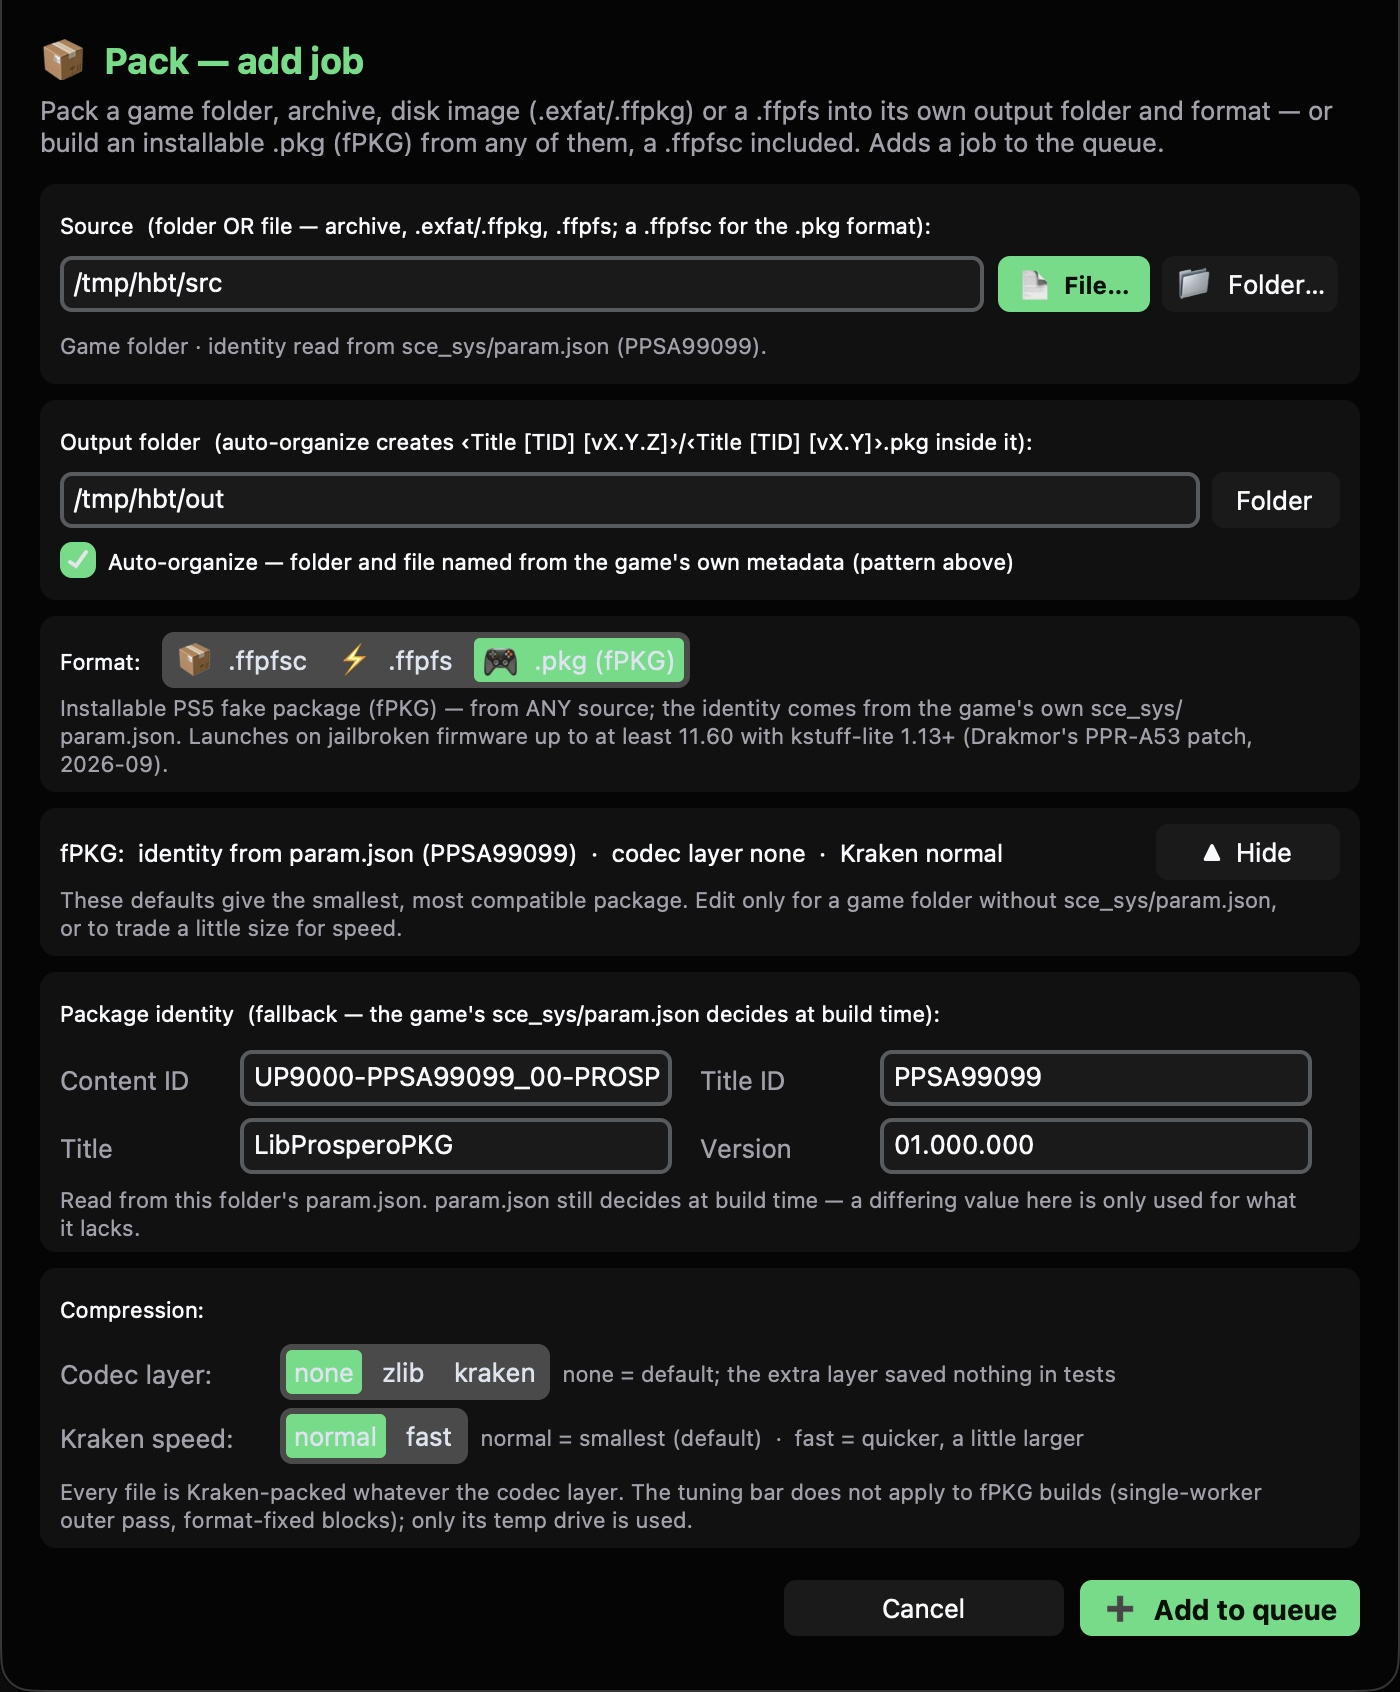
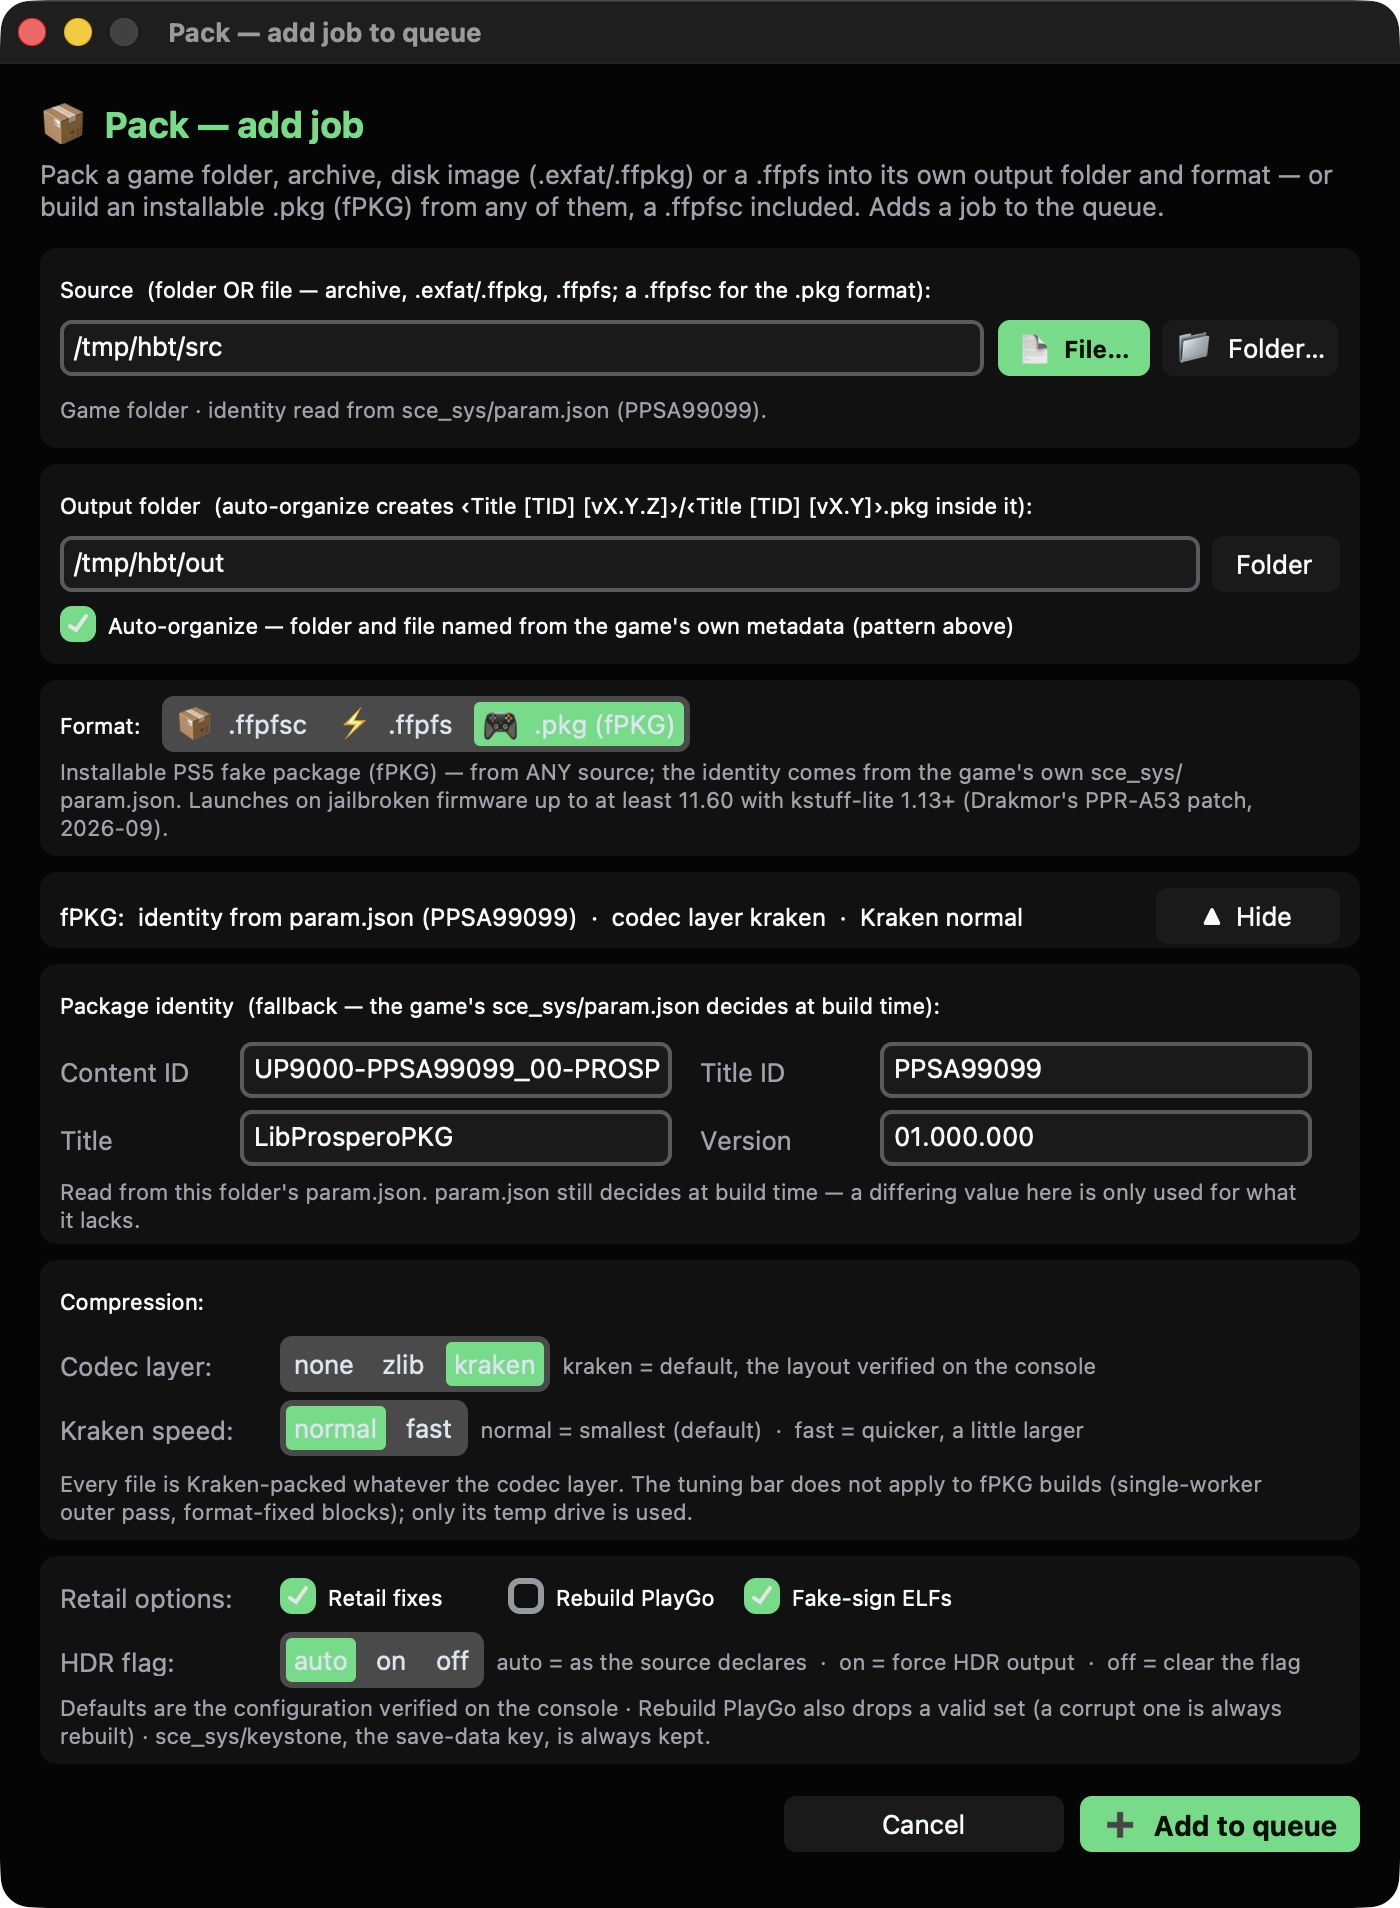
1.1.15: changelog, README, refreshed screenshots, log pane header, fPKG stage cleanup
- CHANGELOG: one 1.1.15 section for everything since 1.1.13 (1.1.14 was never
  released).
- README: 19-point validate, retail titles launch since 1.1.12.
- Screenshots retaken from 1.1.15 with the public homebrew sample only.
- The log pane header no longer gets squeezed out of a short log pane.
- Pack dialog: the codec hint names kraken as the default it is.
- Failure cleanup removes an fPKG staging mirror left next to a folder source.

diff --git a/PS5_FFPFSC_ULTRA_v1.0.py b/PS5_FFPFSC_ULTRA_v1.0.py
@@ -94,7 +94,7 @@ except Exception:
     _HAS_DND = False
 
 APP_NAME = "PS5 FFPFSC ULTRA"
-APP_VERSION = "1.1.14"
+APP_VERSION = "1.1.15"
 # For archive sources, the GUI extraction occupies the first slice of a game's overall
 # progress; the worker's pack progress is compressed into the remaining tail so the
 # whole-game percentage stays monotonic across extraction → pack (see CLIWorker._set_stage
@@ -4982,7 +4982,7 @@ class PackDialog(ctk.CTkToplevel):
         ctk.CTkSegmentedButton(r1, values=list(self._INNER), variable=self.inner_var,
                                 selected_color=GREEN, selected_hover_color=GREEN2,
                                 command=lambda *_: self._refresh_hints()).pack(side="left")
-        ctk.CTkLabel(r1, text="  none = default; the extra layer saved nothing in tests",
+        ctk.CTkLabel(r1, text="  kraken = default, the layout verified on the console",
                       text_color=MUTED, font=ctk.CTkFont(size=11)).pack(side="left")
         if self._backend_shown:
             r2 = ctk.CTkFrame(self.crow, fg_color=PANEL); r2.pack(fill="x", padx=10, pady=2)
@@ -7226,7 +7226,9 @@ class App:
         # Logs tab
         log_tab = self.bottom_tabs.tab("Logs")
         log_tab.grid_columnconfigure(0, weight=1)
-        log_tab.grid_rowconfigure(0, weight=1)
+        # Only the text box grows or shrinks; the header row keeps its natural height,
+        # otherwise a short log pane squeezes it and "LOGS" / CLEAR LOGS are cut off.
+        log_tab.grid_rowconfigure(0, weight=0)
         log_head = ctk.CTkFrame(log_tab, fg_color=BLACK)
         log_head.grid(row=0, column=0, sticky="ew")
         log_head.grid_columnconfigure(0, weight=1)
@@ -7238,7 +7240,7 @@ class App:
                                         font=ctk.CTkFont(size=12))
         self._ram_label.grid(row=0, column=1, padx=(0, 10), sticky="e")
         self._button(log_head, "CLEAR LOGS", self.clear_logs, width=110).grid(row=0, column=2, padx=4)
-        self.log_box = ctk.CTkTextbox(log_tab, fg_color=BLACK, border_width=1, border_color=BORDER,
+        self.log_box = ctk.CTkTextbox(log_tab, fg_color=BLACK, border_width=1, border_color=BORDER, height=60,
                                        text_color="#94a3b8", font=ctk.CTkFont(family="Consolas", size=12), wrap="none")
         self.log_box.grid(row=1, column=0, sticky="nsew", pady=(8, 0))
         log_tab.grid_rowconfigure(1, weight=1)
@@ -10523,6 +10525,13 @@ class App:
         _w = getattr(self, "worker", None)
         _partial_dir = Path(str(getattr(_w, "output_dir", "") or "")) if _w is not None else None
         _partial_since = float(getattr(_w, "start_time", 0) or 0) - 2.0
+        _stage_parent = None
+        try:
+            _src = Path(str(getattr(item, "path", "") or ""))
+            if getattr(item, "operation", "") == "fpkg-build" and _src.is_dir():
+                _stage_parent = _src.parent
+        except Exception:
+            _stage_parent = None
         for cand in (getattr(item, "_build_temp", None), self.temp_var.get().strip(), out_spool):
             if not cand:
                 continue
@@ -10534,7 +10543,8 @@ class App:
             if key not in seen and r.exists():
                 seen.add(key)
                 roots.append(r)
-        if not roots and self._extract_dir_for_item(item) is None and _partial_dir is None:
+        if not roots and self._extract_dir_for_item(item) is None and _partial_dir is None \
+                and _stage_parent is None:
             return
 
         _tp = (self.temp_var.get() or "").strip()   # snapshot on the main thread
@@ -10548,6 +10558,17 @@ class App:
                             sz = get_folder_size(p)
                             shutil.rmtree(str(p), ignore_errors=True)
                             freed += sz
+                except Exception:
+                    pass
+            # The fPKG tool stages a hard-link mirror of a folder source next to it
+            # ("<parent>/.ffpfsc-stage-<id>"); a killed build can leave it behind. Removing
+            # it only unlinks the mirror's links — the source files keep their own.
+            if _stage_parent is not None and _stage_parent.is_dir():
+                try:
+                    for p in _stage_parent.iterdir():
+                        if p.is_dir() and p.name.startswith(".ffpfsc-stage-") \
+                                and p.stat().st_mtime >= _partial_since:
+                            shutil.rmtree(str(p), ignore_errors=True)
                 except Exception:
                     pass
             if _partial_dir is not None and _partial_dir.is_dir():

diff --git a/README.md b/README.md
@@ -20,7 +20,7 @@
 
 ---
 
-## 🎮 New in 1.1.10 — PS5 fPKG that actually launches on 11.60
+## 🎮 PS5 fPKG that launches on 11.60
 
 **Build console-installable PS5 `.pkg` files on macOS, in-process, no Wine, no Sony DLL.** The bundled `ffpfsc-pkg-tool` (a self-contained .NET 9 build of drakmor's LibProsperoPkg 1.2.0, GPL-3) turns any pack source — a decrypted game folder, a third-party archive, a `.ffpfsc`, an `.exfat` image — into a debug `.pkg` that installs and launches on a jailbroken PS5.
 
@@ -30,9 +30,11 @@
 
 **Verified 2026-09-24 on retail PS5, firmware 11.60, kstuff-lite 1.13-dr-test3:** the `HomebrewTest` fPKG produced by this tool launches — no `CE-100096-6`, no `beschädigte Daten` sequence, just the app coming up. Byte-diff against a `libScePubTools.dll` reference build: the inner PFS is byte-identical, only the outer PFS wrap differs in non-load-critical timestamp/ICV bytes. The old "≤ 11.40 only" firmware ceiling that shipped in every earlier build was a single wrong outer-PFS wrap mode in our builder — not a Sony patch, not something Wine could have fixed.
 
+**Retail titles launch too (since 1.1.12, verified 2026-09-25 on the same console):** a game built from its own container installs, starts and keeps its saves. The builder validates the source's PlayGo files, stamps the retail DRM type and license entries, and keeps the backport emulators in `fakelib/`.
+
 - **Any source** → `.pkg`: game folder, parent folder (scanned), third-party archive, disk image (`.exfat` / `.ffpkg`), an existing `.ffpfs` or `.ffpfsc` (unwrapped on the temp drive first).
 - **Identity from the game itself.** Content id, title id, version, title read from the source's own `sce_sys/param.json` at build time. The dialog's identity fields are fallbacks for game folders that lack a `param.json`.
-- **17-point validate checklist** runs after every build. If the console rejects the package the log tells you which invariant failed.
+- **19-point validate checklist** runs after every build. If the console rejects the package the log tells you which invariant failed.
 - **Auto-organize** names the result `<Title> [TITLEID] [vXX.YYY].pkg` in a per-title folder, straight from `param.json`.
 - **fPKG⇢** goes the other direction: extract a finalized `.pkg` into a `/app0`-style folder (inner PFS + all `sce_sys` CNT metadata merged), ready to pack, patch, or turn back into a `.pkg`.
 - **Browse** a `.pkg` without extracting the rest: the tree, plus surgical extract of a single file or folder. Decodes only the blocks it touches.
